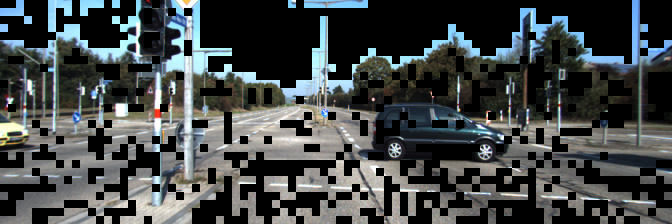
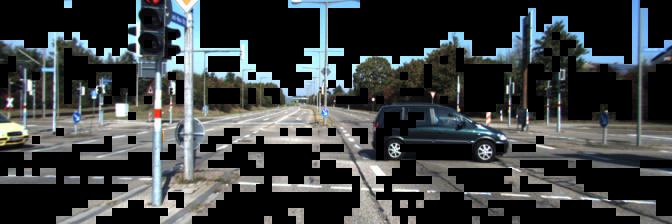
running main with default values & checking in output
what was in output_test/spatial_output/0000000000.png (a copy of spatial_output/0000000000.png) likely wasn't with default values

diff --git a/main.py b/main.py
@@ -55,24 +55,27 @@ if ( args["output"] ):
     if ( not os.path.exists(output_dir_temporal) ):
         os.makedirs( output_dir_temporal )
 if ( args["threshold"] ):
-    if ( int(args["threshold"]) < 0 ):
+    tmp = int(args["threshold"])
+    if ( tmp < 0 ):
         print( "threshold must be > 0; using default value" )
     else:
-      threshold = args["threshold"]      
+      threshold = tmp      
 if ( args["spatial_feature"] ):
     spatial_feature = args["spatial_feature"]    
 if ( args["size"] ):
-    if ( int(args["size"]) < 0 ):
+    tmp = int(args["size"])
+    if ( tmp < 0 ):
         print( "size must be >0; using default value" )
     else:
-      size = args["size"]
+      size = tmp
 if ( args["resize"] ):
-    if ( int(args["resize"]) != 0 ):
+    tmp = int(args["resize"])
+    if ( tmp != 0 ):
         resize = 1
     else:
-      resize = args["resize"]      
+      resize = tmp      
 print( "" )
 
 #Please set the 'size' parameter in spatial and temporal folder if you want to resize the dataset images 
-spatial_op.spatial_redundancy( input_dir, output_dir_spatial, spatial_feature, threshold, size=8, resize=1, filetype="*.png")
-temporal_op.temporal_redundancy( input_dir, output_dir_temporal, threshold, size=8, resize=1, filetype="*.png")
+spatial_op.spatial_redundancy( input_dir, output_dir_spatial, spatial_feature, threshold, size, resize, filetype="*.png")
+temporal_op.temporal_redundancy( input_dir, output_dir_temporal, threshold, size, resize, filetype="*.png")

diff --git a/spatial_op.py b/spatial_op.py
@@ -33,7 +33,7 @@ def spatial_redundancy(dir_src, dir_dest, spatial_feature, th, size=8, resize=1,
             if ( spatial_feature == 'edge' ):
               img_out, non_roi = spatial.edge_feature_point(img, size, th)
             elif ( spatial_feature == 'MAD' ): 
-              #print( "MAD" )
+              print( "MAD" )
               img_out, non_roi = spatial.mean_absolute_dev(img, size)
             else:
               print( "unknown spatial feature; returning input image" )

diff --git a/README.md b/README.md
@@ -8,7 +8,7 @@ This is python-based simulator for an event-camera. The simulator draws visual a
 
 ## HOW TO RUN 
 ````
-$ conda activate event-camera-simulator # make sure you have done the PREQUISITE step
+$ conda activate event-camera-simulator # make sure you have done the PREQUISITES step
 $ python3 main.py
 $ conda deactivate # when done
 ````
